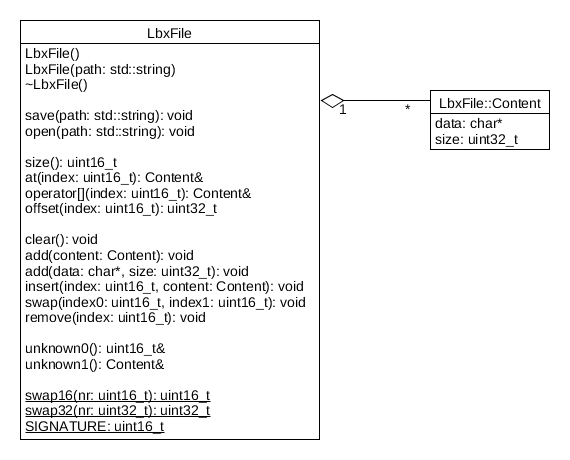
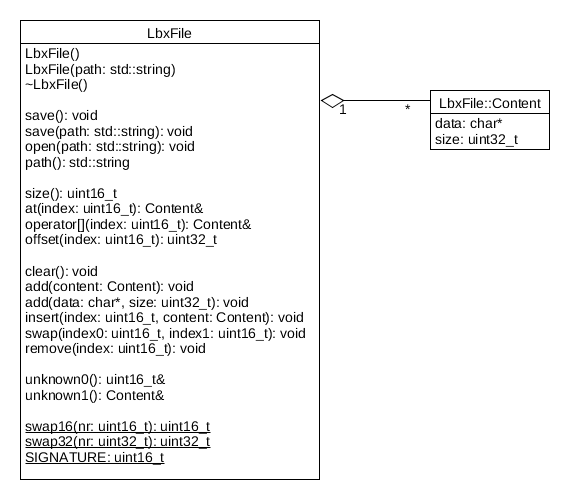
added path variable

Changed region(s): [[0.0298, 0.0304, 0.5667, 0.9739], [0.686, 0.1522, 0.9544, 0.3348], [0.5667, 0.1826, 0.6263, 0.2435]]

diff --git a/src/lbx.cpp b/src/lbx.cpp
@@ -1,6 +1,5 @@
 #include <fstream>
 #include <stdexcept>
-#include <iostream>
 
 #include "lbx.h"
 
@@ -32,6 +31,10 @@ LbxFile::Content& LbxFile::operator[](uint16_t _index) {
 
 LbxFile::Content& LbxFile::at(uint16_t _index) {
     return content[_index];
+}
+
+std::string LbxFile::path() {
+    return filePath;
 }
 
 void LbxFile::add(Content _content) {
@@ -67,6 +70,10 @@ LbxFile::Content& LbxFile::unknown1() {
     o.write((char*) &w32, 4);\
 }
 
+void LbxFile::save() {
+    save(path());
+}
+
 void LbxFile::save(std::string _path) {
     std::ofstream o(_path, std::ifstream::binary);
     if (!o.good()) {
@@ -89,6 +96,8 @@ void LbxFile::save(std::string _path) {
     for (uint16_t i = 0; i < size(); ++i) {
         o.write(at(i).data, at(i).size);
     }
+    
+    filePath = _path;
 }
 
 uint32_t LbxFile::offset(uint16_t _index) {
@@ -180,6 +189,7 @@ void LbxFile::open(std::string _path) {
     // file is good, clean up
     clear();
     delete[] u1.data;
+    filePath = _path;
 
     // save unknown data
     u0 = wtf;

diff --git a/src/test.cpp b/src/test.cpp
@@ -37,7 +37,7 @@ uint8_t get(LbxFile::Content& content) {
 #define LBX_TEST_CMP(x, y, z){\
     if (y != z) {\
         std::stringstream e;\
-        e << msg << " test failed - " << x << " missmatch (" << (uint32_t)y << "!=" << (uint32_t)z << ")";\
+        e << msg << " test failed - " << x << " missmatch (" << y << "!=" << z << ")";\
         throw std::runtime_error(e.str());\
     }\
 }
@@ -81,10 +81,14 @@ void test() {
     }
 
     // test file class
+    std::string msg("class");
+    
     LbxFile lbx("test0.lbx");
+    LBX_TEST_CMP("path0", "test0.lbx", lbx.path())
     cmp("read", lbx, 42, 255,{0, 1, 2, 3, 4});
 
     lbx.save("test1.lbx");
+    LBX_TEST_CMP("path1", "test1.lbx", lbx.path())
     lbx.open("test1.lbx");
     cmp("save", lbx, 42, 255,{0, 1, 2, 3, 4});
 

diff --git a/src/lbx.h b/src/lbx.h
@@ -38,6 +38,12 @@ public:
     virtual ~LbxFile();
 
     /**
+     * Save lbx file.
+     * Throws exception if something goes wrong.
+     */
+    void save();
+    
+    /**
      * Save lbx file to given path.
      * Throws exception if something goes wrong.
      * @param path
@@ -51,6 +57,12 @@ public:
      * @param path
      */
     void open(std::string path);
+    
+    /**
+     * Get path of lbx file.
+     * @return path
+     */
+    std::string path();
 
     /**
      * Get number of files contained in the lbx archive.
@@ -158,6 +170,7 @@ private:
     uint16_t u0;
     Content u1;
     std::vector<Content> content;
+    std::string filePath;
 };
 
 #endif /* LBX_H */
